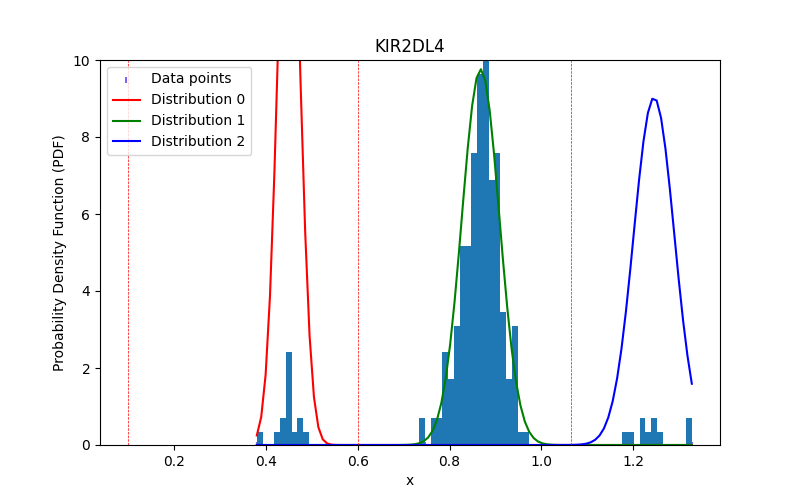
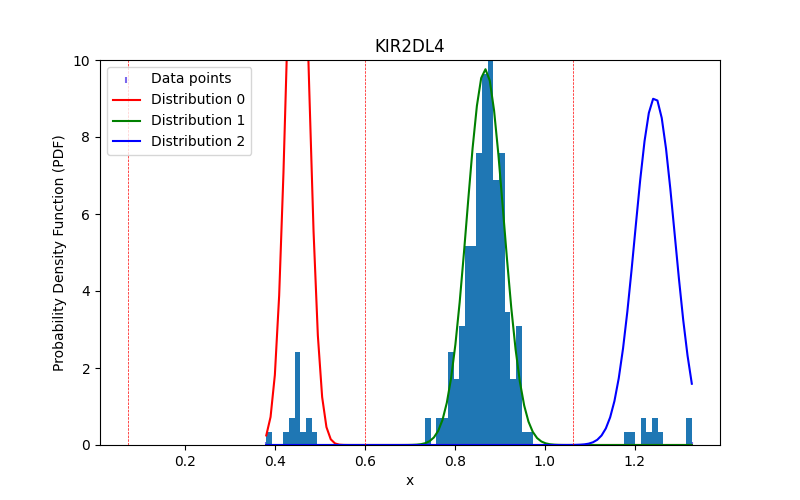
.

diff --git a/functions/gaussianfunctions.py b/functions/gaussianfunctions.py
@@ -271,9 +271,9 @@ def findThreshold2(iteration_data):
         
     return(thresholds)
 
-def PlotGMM(X,iteration_data,plotper_iter:int,thresholds,title_name:str,ylimit):
+def PlotGMM(X,iteration_data,plotper_iter:int,thresholds,title_name:str,ylimit,mean_ghost,var_ghost):
     c=['red','green','blue','magenta','darkorange','slategray']
-    gmm_datapoints=np.linspace(np.min(X),np.max(X),100)
+    gmm_datapoints=np.linspace(0,np.max(X),100)
     for i in range(len(iteration_data)):
         if  i==len(iteration_data)-1:
             # i%plotper_iter==0
@@ -283,9 +283,10 @@ def PlotGMM(X,iteration_data,plotper_iter:int,thresholds,title_name:str,ylimit):
             plt.scatter(X, [0.005] * len(X), color='mediumslateblue', s=15, marker="|", label="Data points")
             plt.hist(X,bins=75,density=True)
 
+            
             #Plot the estimated pdf
             for k in range(len(iteration_data[i])):
-                plt.plot(gmm_datapoints, GaussianPDF(gmm_datapoints, iteration_data[i][k]['Mean'], iteration_data[i][k]['Variance']), color=c[k], label="Distribution {}".format(k))
+                plt.plot(gmm_datapoints,GaussianPDF(gmm_datapoints, iteration_data[i][k]['Mean'], iteration_data[i][k]['Variance']), color=c[k], label="Distribution {}".format(k))
             
             if ylimit==[]:
                 pass
@@ -299,8 +300,15 @@ def PlotGMM(X,iteration_data,plotper_iter:int,thresholds,title_name:str,ylimit):
             
             if i==len(iteration_data)-1:
                 for i in range (len(thresholds)):
-                    plt.axvline(thresholds[i],c='red',ls='--',lw=0.5)
-
+                    plt.axvline(thresholds[i],c='red',ls='--',lw=0.5,label="Thresholds")
+            
+            # Plot ghost gaussian
+            if mean_ghost==[]:
+                pass
+            else:
+                gmm_datapoints2 = np.linspace(0,np.max(X),100)
+                for i in range(len(mean_ghost)):
+                    plt.plot(gmm_datapoints2,GaussianPDF(gmm_datapoints2, mean_ghost[i], var_ghost[i]), color='black', linestyle='dashed', label="Possible missing distribution")
             
             return(fig)
 

diff --git a/functions/main_function.py b/functions/main_function.py
@@ -36,14 +36,22 @@ for i in KIR:
     # Thresholds
     thresholds=gauss.findThreshold2(em)
 
-    
+    mean_ghost=[]
+    var_ghost=[]
     # Check threshold of 0 copies
     if gauss.check_gaps_below(em)==(False,0):
-        thresholds.append(0.1)
+        mean_ghost.append(1e-4)
+        var_ghost.append(1e-6)
+        thresholds.append(0.07277145626097836)
     elif gauss.check_gaps_below(em)==(False,1):
-        thresholds.append(0.1)
         last_iter=em[-1]
+        mean_ghost.append(1e-4)
+        var_ghost.append(1e-6)
+        thresholds.append(0.07277145626097836)
+        
         new_thres=last_iter[0]['Mean']-(3.89*np.sqrt(last_iter[0]['Variance']))
+        mean_ghost.append((min(thresholds)+new_thres)/2)
+        var_ghost.append((last_iter[0]['Variance']))
         thresholds.append(new_thres)   
 
     # Check if there is "double gap", add threshold if yes.
@@ -54,11 +62,13 @@ for i in KIR:
         dis_thres=extra_threshold_1-thresholds[-1]
         extra_threshold_2=last_iter[gauss_index+1]['Mean']-(3.89*np.sqrt(last_iter[gauss_index+1]['Variance']))
         thresholds=thresholds[:-1]
+
+        mean_ghost.append((extra_threshold_1+extra_threshold_2)/2)
+        var_ghost.append(((extra_threshold_2-extra_threshold_1)/6.58)**2)
+
         thresholds.append(extra_threshold_1)
         thresholds.append(extra_threshold_2)
     thresholds.sort()
-    
-    print(i,thresholds)
 
     threshold_all.append(thresholds)
 
@@ -71,7 +81,7 @@ for i in KIR:
     data_lowprob_all.append(lowprob_sample_number)
     
     #Output the figures
-    fig=gauss.PlotGMM(X,em,50,thresholds,i,10)
+    fig=gauss.PlotGMM(X,em,50,thresholds,i,10,mean_ghost,var_ghost)
     output_path= "/Users/devitahalim/Documents/GitHub/scie30001-project/output/plots/plot_"
     fig.savefig(output_path+(i))
 
